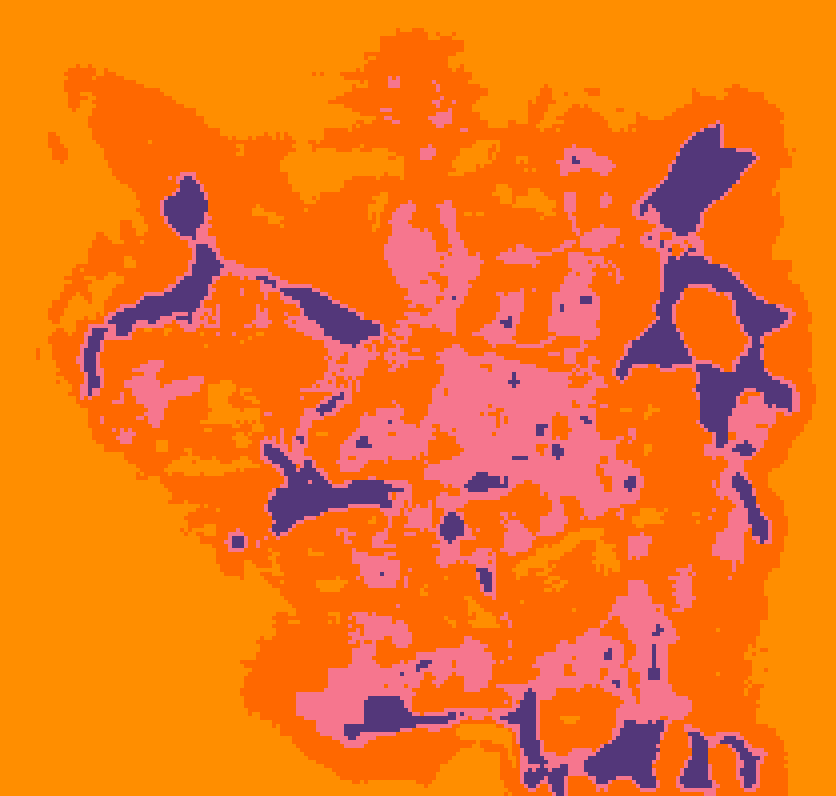
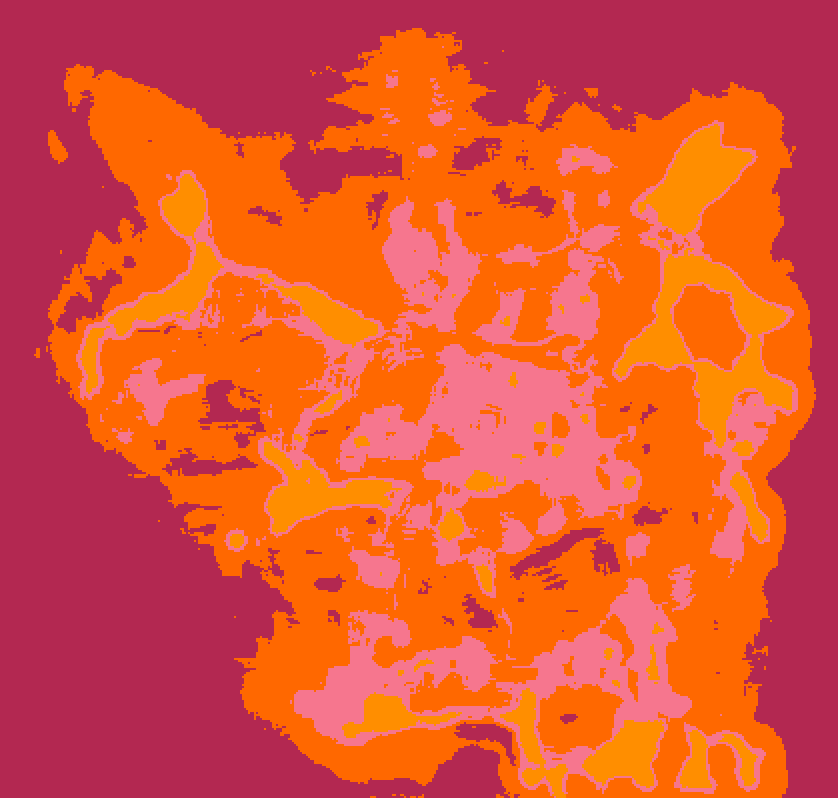
save button now saves image slices as serialized nparrays

diff --git a/data_utils/gui_app.py b/data_utils/gui_app.py
@@ -6,7 +6,7 @@ import numpy as np
 import os
 
 # from box_color_picker import create_mouse_event, create_json_with_colors_and_items
-from scanner import get_map_with_scan_overlay, scan_map, save_map_with_scan_overlay
+from scanner import get_map_with_scan_overlay, scan_map, save_map_with_scan_overlay, dual_sliding_window_matrices_no_padding
 
 from PyQt6.QtCore import QSize, Qt, QPoint
 from PyQt6.QtGui import QPixmap, QImage
@@ -297,10 +297,30 @@ class MainWindow(QWidget):
         name = Path(self.current_image_path).stem
         image_name = results_directory + "/" + name + "_ORIGINAL"
         colormap_name = results_directory + "/" + name + "_COLORMAP"
-        colormap = colormap_createor.get_colormap(self.current_result)
+
+        defined_colours = json.loads(str(self.json.toPlainText()))
+        defined_colours = utils.translate_json_to_colors_dict(defined_colours)
+        label_matrix = scan_map(self.current_image_path, defined_colours, grid_size=1) 
+        print("SAVED DIMS")
+        print(self.current_image.shape)
+        colormap = colormap_createor.get_colormap(label_matrix)
+        print(colormap.shape)
         Image.fromarray(colormap).save("./tmp_colormap.png")
         np.save(image_name, self.current_image)
         np.save(colormap_name, colormap)
+
+        orig_slices, colormap_slices = dual_sliding_window_matrices_no_padding(self.current_image, colormap, window_size=256, step_size=16)
+        print("SLICES")
+        print(orig_slices.shape)
+        print(colormap_slices.shape)
+        for i in range(len(orig_slices)):
+            np.save(image_name + "_" + str(i), orig_slices[i])
+        for i in range(len(colormap_slices)):
+            np.save(colormap_name + "_" + str(i), colormap_slices[i])
+        
+            
+
+        
 
 
 if __name__ == "__main__":

diff --git a/data_utils/colormap_createor.py b/data_utils/colormap_createor.py
@@ -21,8 +21,8 @@ kelly_colors = dict(vivid_yellow=(255, 179, 0),
                     deep_yellowish_brown=(89, 51, 21),
                     vivid_reddish_orange=(241, 58, 19),
                     dark_olive_green=(35, 44, 22))
-#labels_path = "./labels.txt"
-labels_path = "./data_utils/labels.txt"
+labels_path = "./labels.txt"
+labels_path2 = "./data_utils/labels.txt"
 def get_single_color_dict(index):
     #ret = {}
     ret = []
@@ -39,10 +39,14 @@ def vec_translate(a, my_dict):
    return np.vectorize(my_dict.__getitem__)(a)
 
 def get_colormap(label_matrix: np.ndarray):
-    with open(labels_path, "r") as f:
-        labels = f.readlines()
-        labels = [ x.strip() for x in labels ]
-        print(labels)
+    try:
+        file = open(labels_path)
+    except:
+        file = open(labels_path2)
+
+    labels = file.readlines()
+    file.close()
+    labels = [ x.strip() for x in labels ]
     
     label_color_r = {}
     label_color_g = {}
@@ -54,7 +58,6 @@ def get_colormap(label_matrix: np.ndarray):
         label_color_b[label] = kelly_colors_b[i]
        
     colormap_r = vec_translate(label_matrix,label_color_r)
-    print("R" + str(colormap_r))
     colormap_g = vec_translate(label_matrix,label_color_g)
     colormap_b = vec_translate(label_matrix,label_color_b)
     return np.dstack((colormap_r,colormap_g,colormap_b)).astype(np.uint8)  

diff --git a/data_utils/scanner.py b/data_utils/scanner.py
@@ -98,6 +98,20 @@ def _sliding_window_matrices(matrix, window_size=16, step_size=14, replace_value
 
     return np.array(submatrices)
 
+def dual_sliding_window_matrices_no_padding(matrix1, matrix2, window_size=16, step_size=14)  -> np.ndarray[Any, np.dtype[Any]]:
+    submatrices1 = []
+    submatrices2 = []
+    range_indices_x = range(0, min(matrix1.shape[0], matrix2.shape[0])-window_size, step_size)
+    range_indices_y = range(0, min(matrix1.shape[1], matrix2.shape[1])-window_size, step_size)
+    for x in range_indices_x:
+        for y in range_indices_y:
+            submatrix = matrix1[x:x + window_size, y:y + window_size]
+            submatrices1.append(submatrix)
+            submatrix = matrix2[x:x + window_size, y:y + window_size]
+            submatrices2.append(submatrix)
+
+    return np.array(submatrices1), np.array(submatrices2)
+
 def _numpy_arr_to_dataset(arr: np.array) -> DatasetV2:
     return tf.data.Dataset.from_tensor_slices(arr)
 

diff --git a/results/test.py b/results/test.py
@@ -1,0 +1,10 @@
+import numpy as np
+from matplotlib import pyplot as plt
+
+orig = np.load("./Black_Ring_Encampment_Map_ORIGINAL_1092.npy")
+colormap = np.load("./Black_Ring_Encampment_Map_COLORMAP_1092.npy")
+
+plt.imshow(orig, interpolation='nearest')
+plt.show()
+plt.imshow(colormap, interpolation='nearest')
+plt.show()
